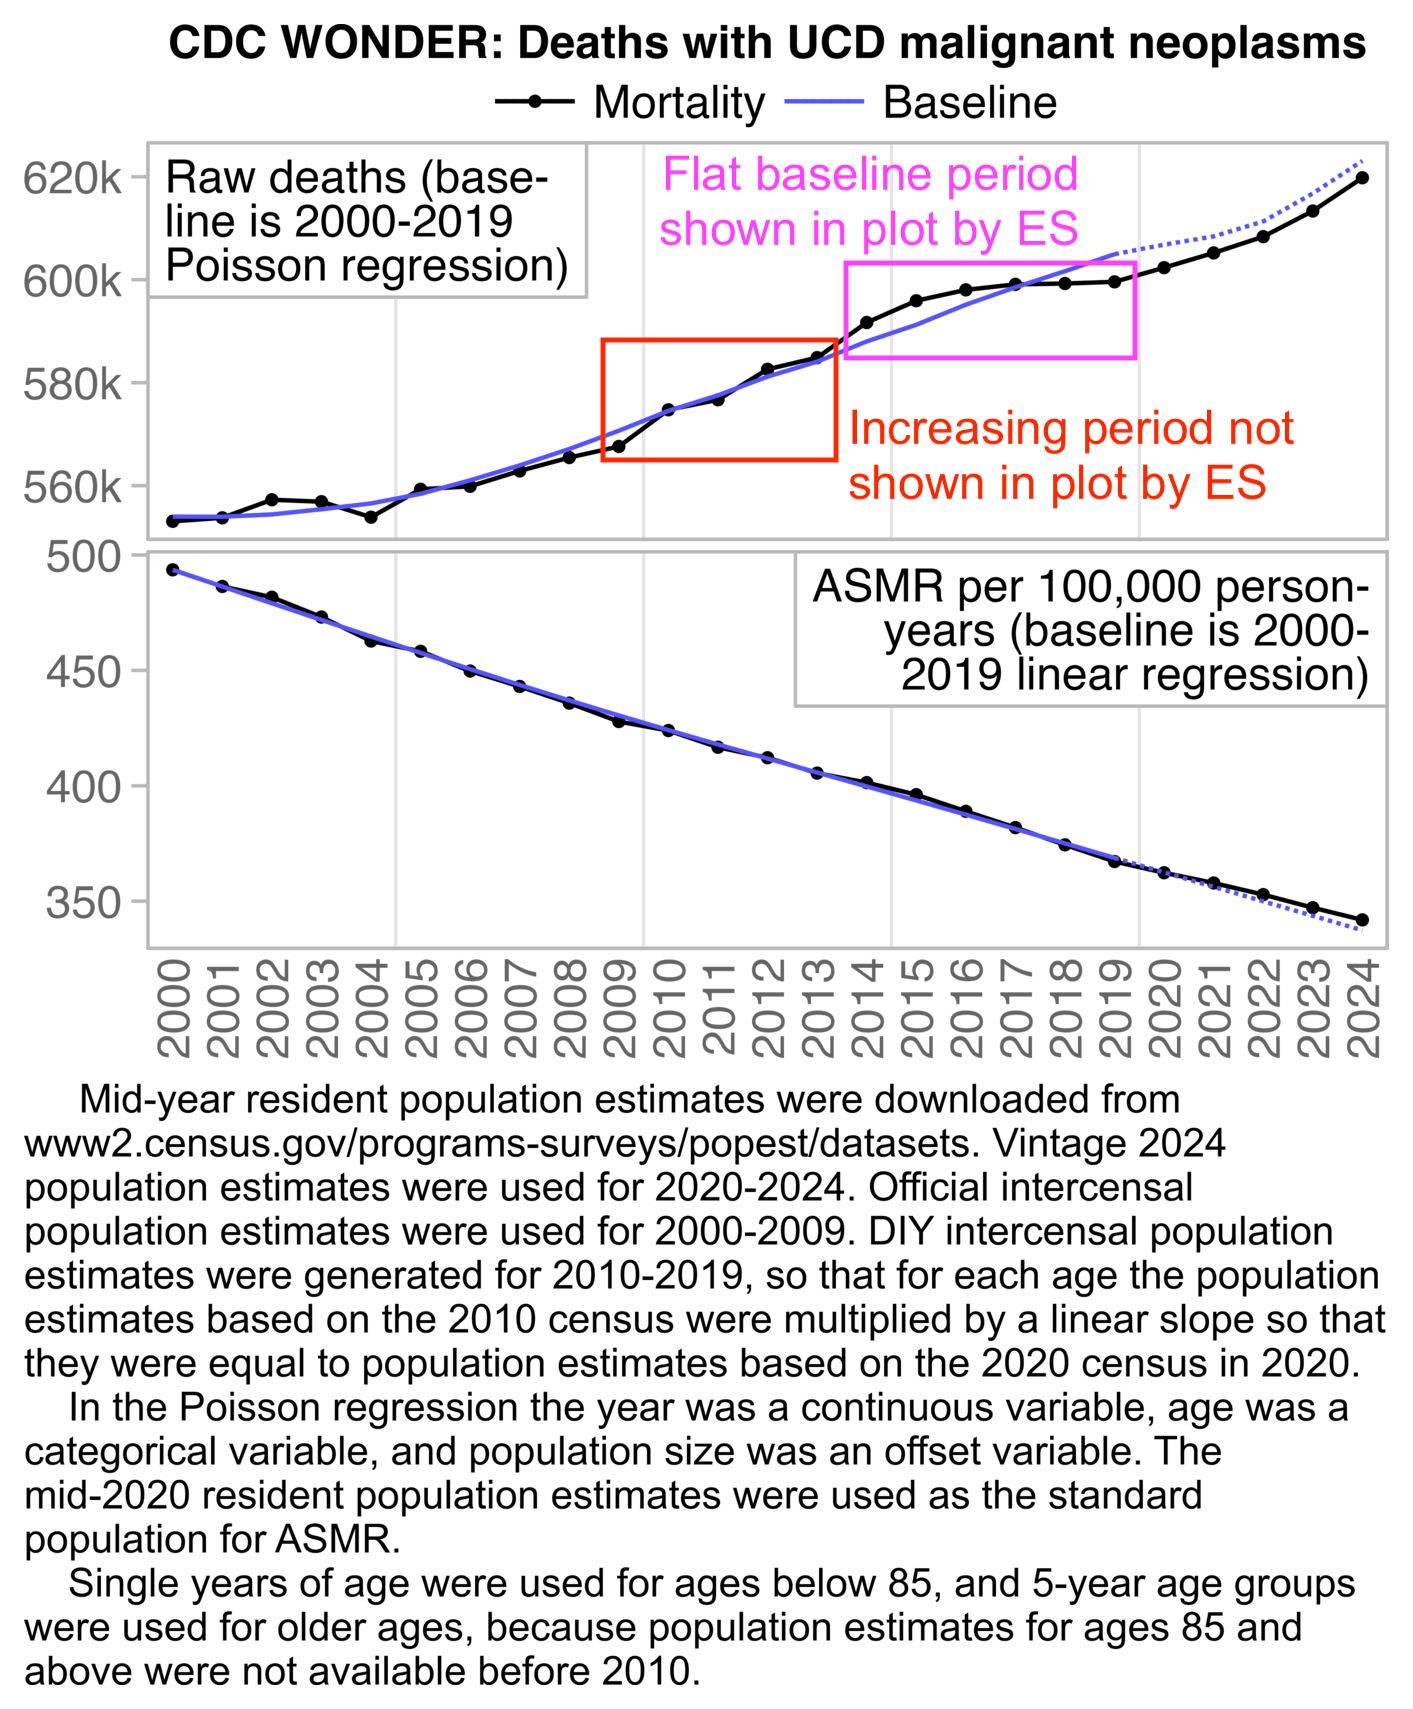
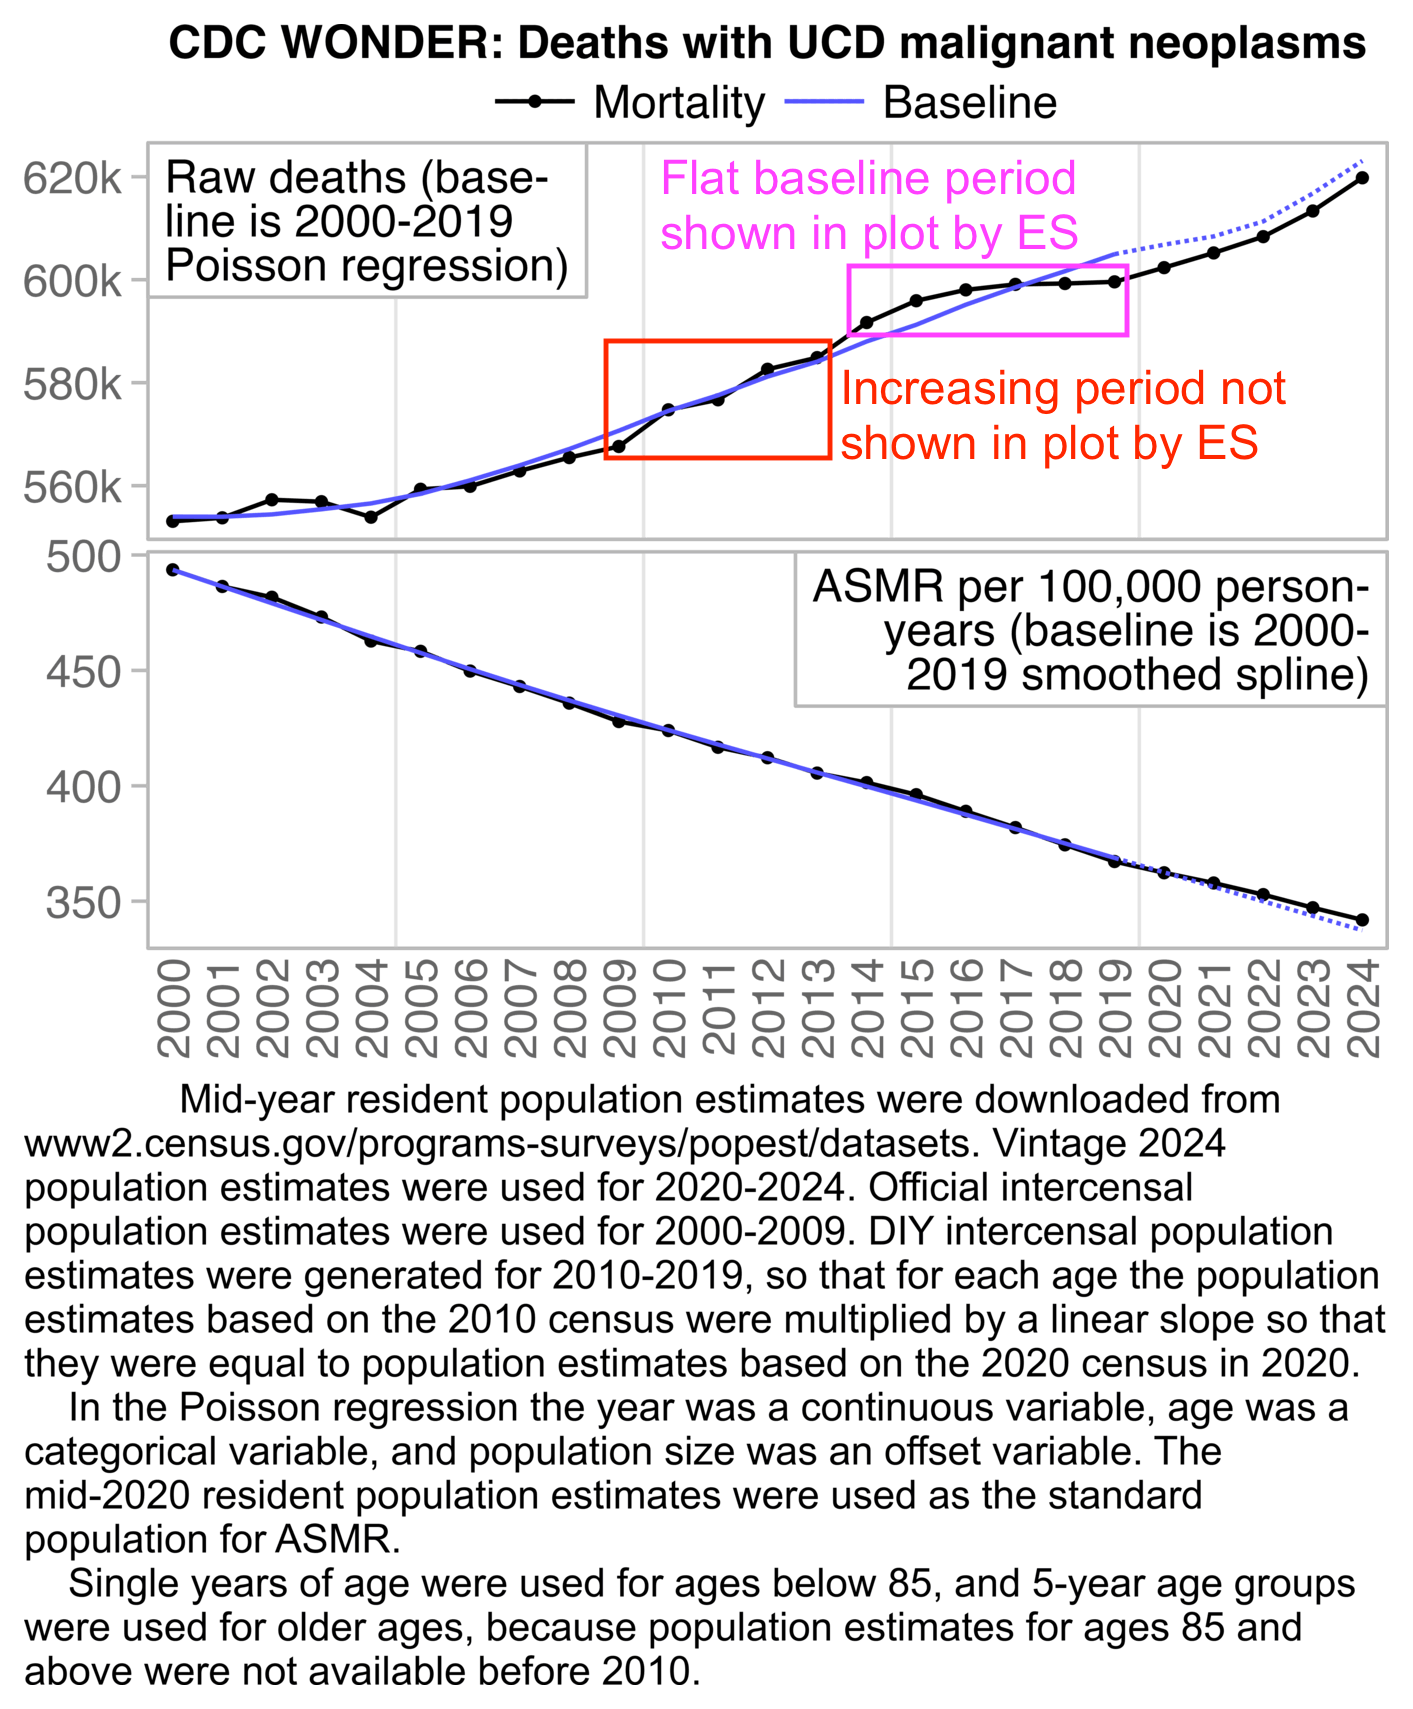
a

Changed region(s): [[0.4048, 0.093, 0.9342, 0.3101], [0.0623, 0.6202, 0.903, 0.6513], [0.6228, 0.3721, 0.9653, 0.4032]]

diff --git a/ethical2.html b/ethical2.html
@@ -75,6 +75,8 @@ blockquote h3{color:inherit}
 <li><a href="#Why_did_the_population_estimate_of_ages_72_and_above_increase_in_2020_2022_despite_COVID_deaths">Why did the population estimate of ages 72 and above increase in 2020-2022 despite COVID deaths?</a></li>
 <li><a href="#Yearly_ASMR_in_April_to_September">Yearly ASMR in April to September</a></li>
 <li><a href="#Increase_in_raw_cancer_deaths_since_2020">Increase in raw cancer deaths since 2020</a></li>
+<li><a href="#Pre_COVID_linear_trend_in_deaths_compared_to_population_projections_by_Census_Bureau">Pre-COVID linear trend in deaths compared to population projections by Census Bureau</a></li>
+<li><a href="#Cancer_incidence_in_ages_below_50_in_Australia">Cancer incidence in ages below 50 in Australia</a></li>
 </ul>
 
 
@@ -1854,8 +1856,7 @@ system(&quot;magick 1.png -resize 25% -colors 256 1.png&quot;)</pre>
 </div>
 </blockquote>
 <p>However the slope of his yellow-green line doesn't even seem to match the actual summer troughs, because it's above the trough in 2014 but below the trough in 2019.</p>
-<p>When I did a</p>
-<p>Here I added four different baselines fitted against the troughs, but all of the baselines were much steeper than the line for his trough regression:</p>
+<p>Here I added four different baselines fitted against the troughs, but all of the baselines were much steeper than the yellow-green line for his <span class="quote">"trough regression"</span>:</p>
 <div>
 <img src=i/ethical-trough-2.png width=1100>
 </div>
@@ -2885,6 +2886,83 @@ theme(axis.text=element_text(size=11,color=&quot;gray40&quot;,margin=margin(2,2,
   strip.background=element_blank(),
   strip.text=element_blank())
 ggsave(&quot;1.png&quot;,width=4.7,height=3.6,dpi=300*4)</pre>
+</div>
+<p>The plot above also demonstrates how the long-term trend in ASMR tends to be more linear than the long-term trend in raw deaths. If ES plotted ASMR instead of raw deaths, then it would be appropriate to use a simple linear baseline in many cases.</p>
+<h2>
+<a href=#Pre_COVID_linear_trend_in_deaths_compared_to_population_projections_by_Census_Bureau id=Pre_COVID_linear_trend_in_deaths_compared_to_population_projections_by_Census_Bureau>Pre-COVID linear trend in deaths compared to population projections by Census Bureau</a>
+</h2>
+<p>In his plots Ethical Skeptic fits a linear baseline to raw deaths in 2014-2019 or 2018-2019. However even before COVID, the yearly number of deaths was projected to start increasing more steeply in the 2020s than the 2010s.</p>
+<p>In the next plot I downloaded data for deaths in the 2014 population projections from here: <a href=https://www2.census.gov/programs-surveys/popproj/datasets/2014/2014-popproj/np2014_d3.csv.><a href="https://www2.census.gov/programs-surveys/popproj/datasets/2014/2014-popproj/np2014_d3.csv" class="uri">https://www2.census.gov/programs-surveys/popproj/datasets/2014/2014-popproj/np2014_d3.csv</a>.</a> The blue line shows a 2014-2019 linear regression, which is near identical to the actual projected deaths in 2014-2019. However by 2025 the projected deaths are about 1.2% higher than the linear regression:</p>
+<div>
+<img src=i/ethical-popproj.png width=550>
+</div>
+<div class="spoiler">
+<button>
+Show code
+</button>
+<pre>t=fread(&quot;https://www2.census.gov/programs-surveys/popproj/datasets/2014/2014-popproj/np2014_d3.csv&quot;)
+
+p=t[RACE_HISP==0&amp;SEX==0,.(x=YEAR,y=total_deaths,z=1)]
+p=rbind(p,p[,.(x,y=predict(lm(y~x,p[x%in%2014:2019]),p),z=2)])
+p[,z:=factor(z,,c(&quot;Projected deaths&quot;,&quot;2014-2019 linear regression&quot;))]
+
+xstart=2013.5;xend=2050;xbreak=seq(2015,xend,5);p=p[x&gt;=xstart&amp;x&lt;=xend]
+
+ggplot(p)+
+geom_point(aes(x,y,color=z,alpha=z),size=1.1)+
+geom_line(aes(x,y,color=z),linewidth=.6)+
+labs(x=NULL,y=NULL,title=&quot;Projected yearly deaths in 2014 US population projections&quot;)+
+scale_x_continuous(limits=c(xstart-.5,xend+.5),breaks=xbreak)+
+scale_y_continuous(limits=extendrange(p$y),breaks=pretty(p$y,7),labels=\(x)sprintf(&quot;%.1fM&quot;,x/1e6))+
+scale_color_manual(values=c(&quot;black&quot;,hsv(c(21,30)/36,.7,1)))+
+scale_alpha_manual(values=1:0)+
+coord_cartesian(clip=&quot;off&quot;,expand=F)+
+theme(axis.text=element_text(size=11,color=&quot;gray40&quot;,margin=margin(2,2,2,2)),
+  axis.ticks=element_line(linewidth=.4,color=&quot;gray70&quot;),
+  axis.ticks.length=unit(0,&quot;pt&quot;),
+  legend.background=element_blank(),
+  legend.box.spacing=unit(0,&quot;pt&quot;),
+  legend.key=element_blank(),
+  legend.key.height=unit(12,&quot;pt&quot;),
+  legend.key.width=unit(24,&quot;pt&quot;),
+  legend.margin=margin(,,4),
+  legend.position=&quot;top&quot;,
+  legend.spacing.x=unit(2,&quot;pt&quot;),
+  legend.spacing.y=unit(0,&quot;pt&quot;),
+  legend.text=element_text(size=11,vjust=.5),
+  legend.title=element_blank(),
+  panel.background=element_blank(),
+  panel.border=element_rect(fill=NA,linewidth=.4,color=&quot;gray70&quot;),
+  panel.grid.major=element_line(linewidth=.4,color=&quot;gray90&quot;),
+  panel.spacing=unit(2,&quot;pt&quot;),
+  plot.margin=margin(5,14,3,5),
+  plot.title=element_text(size=11.2,face=2,hjust=.5,margin=margin(,,2)))
+ggsave(&quot;1.png&quot;,width=5,height=3,dpi=300*4)</pre>
+</div>
+<h2>
+<a href=#Cancer_incidence_in_ages_below_50_in_Australia id=Cancer_incidence_in_ages_below_50_in_Australia>Cancer incidence in ages below 50 in Australia</a>
+</h2>
+<p>ES posted this tweet: [<a href=https://x.com/EthicalSkeptic/status/1942309005616963722>https://x.com/EthicalSkeptic/status/1942309005616963722</a>]</p>
+<div>
+<img src=i/ethical-aucancer.png width=550>
+</div>
+<p>The article by ABC he linked said: [<a href=https://www.abc.net.au/news/2025-07-07/cancer-diagnosis-rates-under-50s-rising-causes-four-corners/105495620>https://www.abc.net.au/news/2025-07-07/cancer-diagnosis-rates-under-50s-rising-causes-four-corners/105495620</a>]</p>
+<blockquote>
+<p>Data provided to Four Corners by Cancer Australia, the federal government's cancer agency, paints a concerning picture for young people.</p>
+<p>Between 2000 and 2024 — in 30 to 39-year-olds — early onset prostate cancer increased by 500 per cent, pancreatic cancer by 200 per cent, liver cancer by 150 per cent, uterine cancer by 138 per cent and kidney cancer by 85 per cent.</p>
+</blockquote>
+<p>The ABC article was from July 2025. At that time the latest annual report of cancer data by Cancer Australia was published in December 2024. The report only included actual cancer incidence data up to 2020, and the incidence estimates in 2021 to 2024 were projections: [<a href=https://www.aihw.gov.au/reports/cancer/cancer-data-in-australia/contents/overview>https://www.aihw.gov.au/reports/cancer/cancer-data-in-australia/contents/overview</a>]</p>
+<div>
+<img src=i/ethical-aucancer-2.png width=687>
+</div>
+<p>The 500% increase in prostate cancer seems to be an increase from 2 cases in 2000 to a projected 11 cases in 2024: [<a href=https://www.aihw.gov.au/reports/cancer/cancer-data-in-australia/contents/cancer-incidence-by-age-visualisation>https://www.aihw.gov.au/reports/cancer/cancer-data-in-australia/contents/cancer-incidence-by-age-visualisation</a>]</p>
+<div>
+<img src=i/ethical-aucancer-3.png width=600>
+</div>
+<p>In the plot above the cancer incidence rates are rounded to the nearest 0.1 per 100,000, so the rounded incidence of prostate cancer only increased from 0.1 per 100,000 in 2000 to 0.3 in 2024. But the numbers reported by ABS might have been based on unrounded rates per capita, and not the raw number of new cases.</p>
+<p>The 200% increase in pancreatic cancer seems to be an increase from about 0.5 cases per 100,000 in 2000 to about 1.5 in 2024 (but the raw number of cases increased from 15 to 60, which would be a 300% and not 200% increase):</p>
+<div>
+<img src=i/ethical-aucancer-4.png width=600>
 </div>
 <script>
 document.querySelectorAll('pre').forEach(e=>e.innerHTML=e.innerHTML.replace(/((^| )# [^\n]*|^#$)/mg,"<span class=comment>$1</span>"))

diff --git a/bot3.html b/bot3.html
@@ -346,10 +346,23 @@ blockquote h3{color:inherit}
 <div>
 <img src=i/bot-makislinman.png width=500>
 </div>
-<p>Added in July 2025: Peter McCullough did a video with some other guy sponsored by TWC where they demanded that TV ads for pharmaceuticals must stop. McCullough said he doesn't need to go to a pharmacy because he's a member of TWC so he gets prescription drugs for free from TWC, and he said the products sold by TWC are even covered by some health insurance plans. And he said that someone has diabetes or hypertension, they should not visit a hospital but they should get the premium elite membership at TWC instead. He said the TWC's field kit saved the life of a guy on his African safari trip, and he said everyone should use TWC's nose spray twice a day so they don't get COVID: [<a href=https://www.thefocalpoints.com/p/why-television-drug-commercials-must>https://www.thefocalpoints.com/p/why-television-drug-commercials-must</a>]</p>
+<p>Added in July 2025: Peter McCullough did a video with some other guy sponsored by TWC where they demanded that TV ads for pharmaceuticals must stop. McCullough said he doesn't need to go to a pharmacy because he's a member of TWC so he gets prescription drugs for free from TWC, and he said the products sold by TWC are even covered by some health insurance plans. And he said that someone has diabetes or hypertension, they should not visit a pharmacy but they should get the premium elite membership at TWC instead. He said the TWC's field kit saved the life of a guy on his African safari trip, and he said everyone should use TWC's nose spray twice a day so they don't get COVID: [<a href=https://www.thefocalpoints.com/p/why-television-drug-commercials-must>https://www.thefocalpoints.com/p/why-television-drug-commercials-must</a>]</p>
 <div>
 <img src=i/bot-adsmuststop.jpg width=700>
 </div>
+<p>Added in July 2025: Steve Kirsch now said that he went blind about a week after he started using Spike Detox: [<a href=https://rumble.com/v6vl04x-episode-184-evidence-ethics-and-the-crusade-for-truth.html?start=2696>https://rumble.com/v6vl04x-episode-184-evidence-ethics-and-the-crusade-for-truth.html?start=2696</a>]</p>
+<blockquote>
+<p>I was actually on a detox, or regimen, combining three supplements, which I took for about a week., And then I became permanently blind in my right eye as a result of the supplements.</p>
+<p>Well, it was the McCullough Protocol, the three in the McCullough Protocol. And the reason is that these supplements act as very potent blood thinners. You take one, it will thin your blood, you take two, it will thin your blood more, you take three, it will thin your blood even more.</p>
+<p>And when my vision went south, which happened quite dramatically, in about one minute time, and I was sitting exactly where I'm sitting now - and I was looking at an Excel spreadsheet on the Czech Republic data, I remember it very well - and all of a sudden the screen went wavy, I'm just sitting there, and boom.</p>
+<p>And I went to the retina specialist that day, and the first question he asked is, <span class="quote">"What blood thinner are you on?"</span> And I knew immediately what had happened.</p>
+<p>So these supplements are not without risk. And a combination of supplements can act as a more potent blood thinner than prescription blood thinners. And people don't realize that. And in my case, I paid for it with permanent vision loss in my right eye.</p>
+<p>And what is underappreciated is that anything that you put into your body, even if it's a supplement, you should thoroughly research - especially if it's something that you haven't taken before, and that is not generally taken by most of the population.</p>
+<p>Had I done my homework, I might have decided differently. But I probably wouldn't have. I just said, <span class="quote">"Oh, blood thinner."</span> There was no quantification of the amount of blood thinning.</p>
+<p>And I didn't realize that I was at risk because I had somewhat of a risk factor in that eye. And my retina specialist did not tell me, <span class="quote">"Oh, be sure to avoid blood thinners, because that can exacerbate your condition."</span></p>
+<p>So I think I was in this perfect storm of not being expressly warned by my retina doctor at the time. And then there was no warning at all in this protocol that these are potent blood thinners, make sure you don't have any conditions - like an eye condition that could be exacerbated - where you could permanently lose vision. There were no warnings from either side.</p>
+<p>And, so, I'm paying the price for the rest of my life for that mistake. But hopefully people will learn from that mistake and not repeat the mistake. And basically, anything new you put into your body, make sure you understand what the risks are and make sure you're taking it because you need the benefit. Not because you might need the benefit, because you need the benefit.</p>
+</blockquote>
 <h2>
 <a href=#Paul_Kikos_PKikos id=Paul_Kikos_PKikos>Paul Kikos (PKikos)</a>
 </h2>
